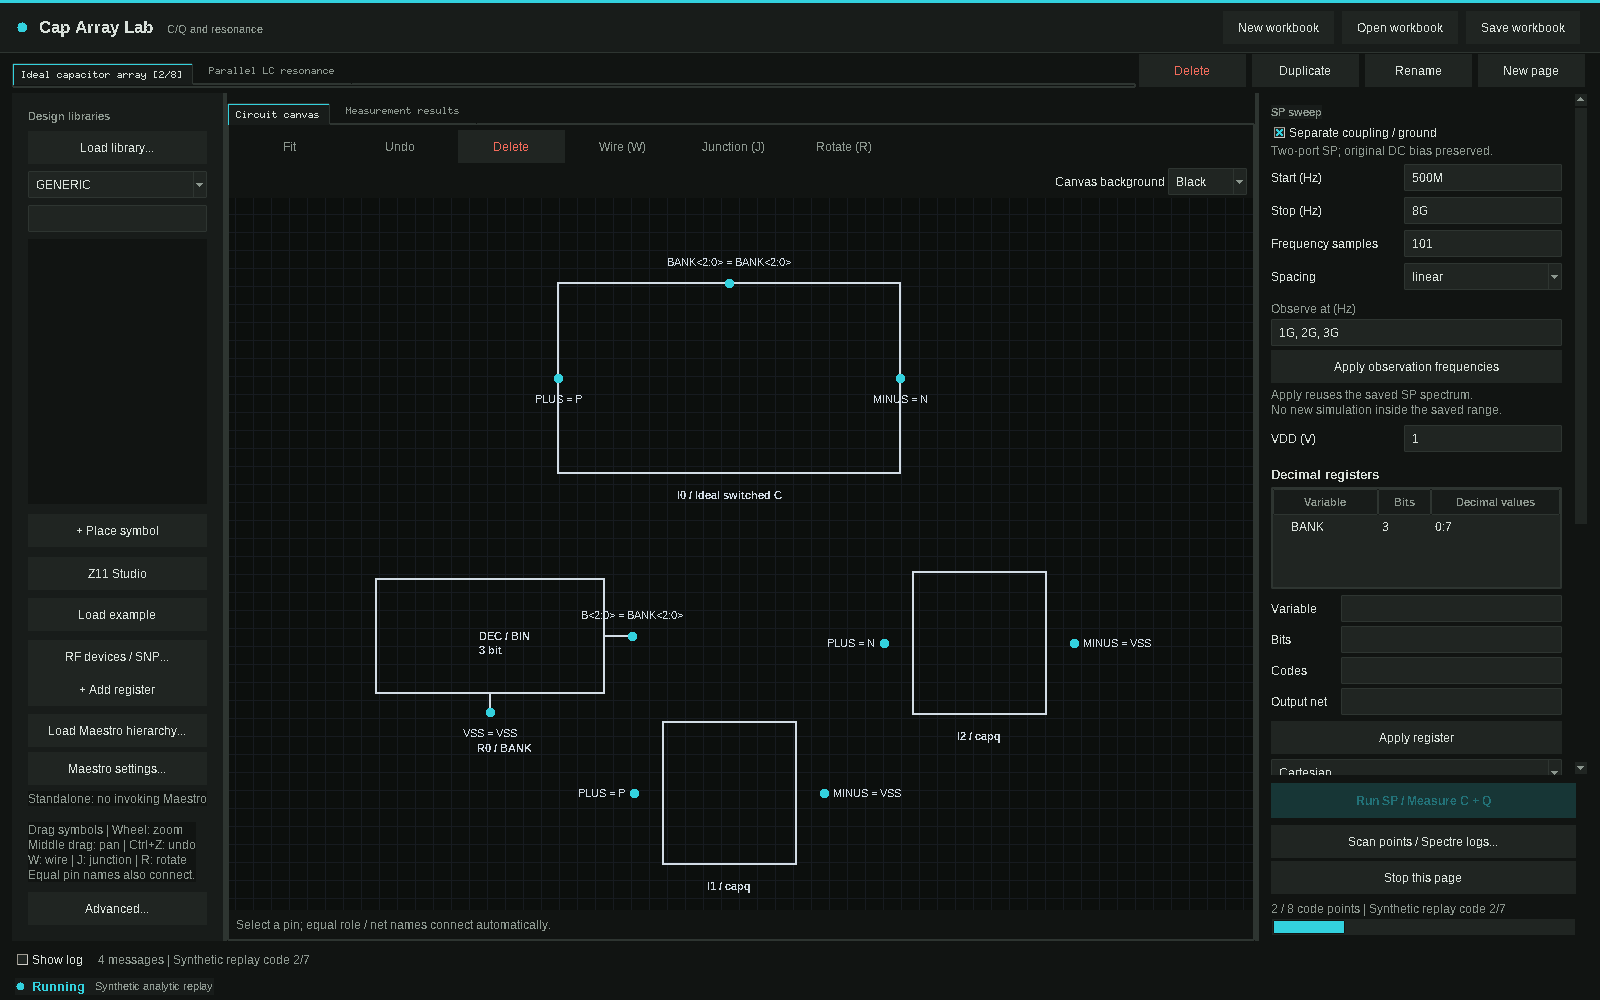
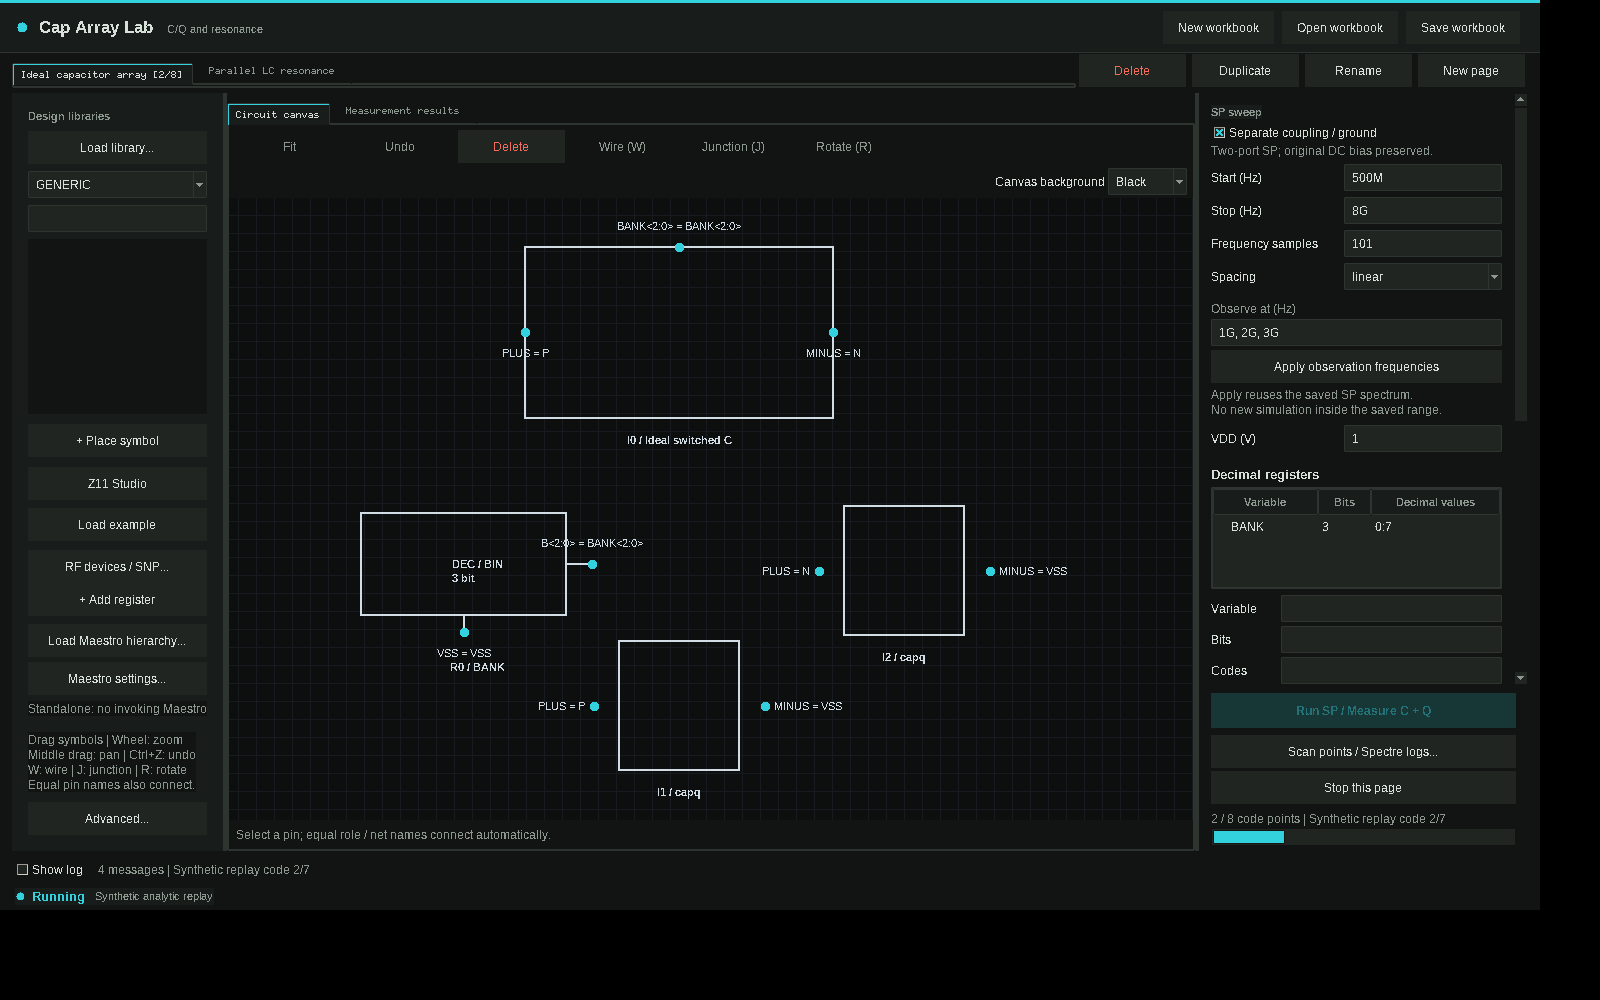
fix: fit example canvas in default window

diff --git a/caplab/maestro_panel.py b/caplab/maestro_panel.py
@@ -154,7 +154,7 @@ def runtime_dialog(app):
             if pid == app.book['active_page']: app.refresh_source_label(); app.update_result_label()
             win.destroy()
         except (ValueError, TypeError) as exc: app.error(str(exc), page_id=pid)
-    ttk.Button(outer, text='Apply to this page', command=apply, style='Accent.TButton').pack(side='bottom', fill='x', pady=(8, 0))
+    ttk.Button(outer, text='Apply to this page', command=apply, style='Primary.TButton').pack(side='bottom', fill='x', pady=(8, 0))
     app.runtime_window = win; app.runtime_fields = fields; app.runtime_apply = apply
 
 
@@ -222,7 +222,7 @@ def show_hierarchy(app, hierarchy, project, pid):
             app.status.set('Placed ' + row['path'] + ' with source config bindings.'); app.log('Placed source occurrence ' + row['path'])
         app.task(lambda b: b.symbol(b.context(current), row['raw_library'], row['raw_cell']), loaded, pid, label='Load hierarchy symbol ' + row['raw_cell'])
     bar = ttk.Frame(box); bar.pack(fill='x', pady=(8, 0))
-    ttk.Button(bar, text='Place selected symbol', command=place, style='Accent.TButton').pack(side='right')
+    ttk.Button(bar, text='Place selected symbol', command=place, style='Primary.TButton').pack(side='right')
     ttk.Button(bar, text='Open source config in Virtuoso', command=app.open_source_config).pack(side='left')
     tree.bind('<Double-1>', lambda e: place())
     app.hierarchy_window = win; app.hierarchy_tree = tree; app.hierarchy_place = place; app.hierarchy_records = records

diff --git a/caplab/demo.py b/caplab/demo.py
@@ -59,7 +59,7 @@ def make_workbook():
     second=add_page(book,'Parallel LC resonance');second['id']='lc_resonance';second['project']=project(True)
     for page in book['pages']:
         p=page['project'];page['result']=cache(resample(p['private']['spectrum'],p['settings']['frequencies']),digest(p),'cartesian');page['result']['analysis']='sp'
-        page['axis']='BANK';page['editor']={'tab':'results','zoom':.5,'pan':[150,70]}
+        page['axis']='BANK';page['editor']={'tab':'results','zoom':.45,'pan':[135,35]}
         if p['demo_model']=='resonator':page['editor'].update(zoom=.35,pan=[200,35])
         page['measurement_view']='Resonance' if p['demo_model']=='resonator' else 'Capacitance'
     book['active_page']=first['id'];book['appearance']={'canvas':'black','plot':'black'}
